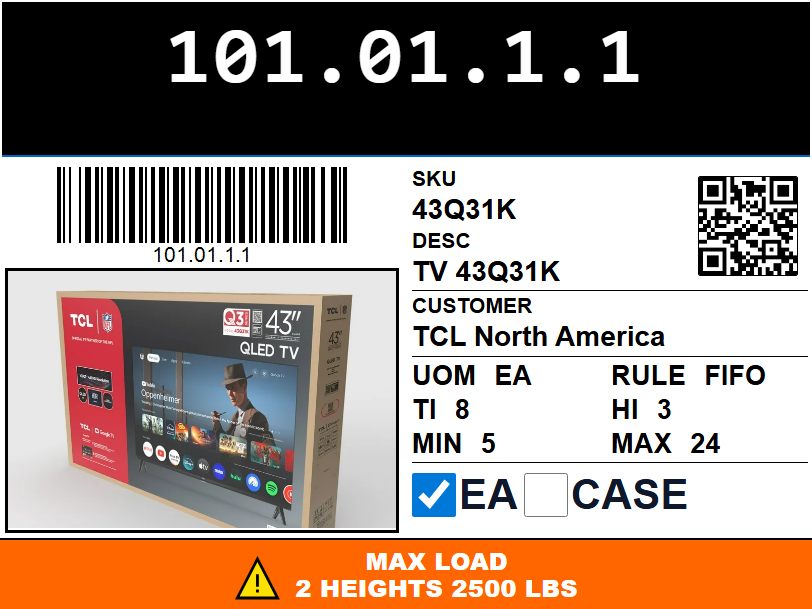
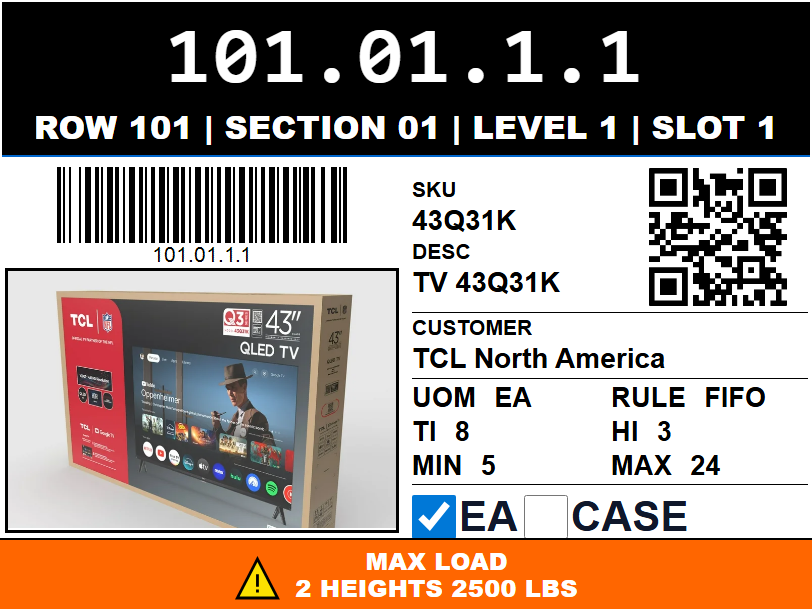
edit location lale style

Changed region(s): [[0.0308, 0.1872, 0.9852, 0.9048], [0.6466, 0.7488, 0.6773, 0.78]]

diff --git a/src/styles/location_label.css b/src/styles/location_label.css
@@ -63,7 +63,7 @@ body {
 
 .location-breakdown {
   font-size: clamp(0.8rem, 8vw, 2rem);
-  color: var(--location-dark);
+  color: var(--location-white);
   margin: 2px 0 0;
   text-transform: uppercase;
   letter-spacing: 0.01em;
@@ -173,7 +173,7 @@ body {
   display: flex;
   flex-direction: column;
   gap: 2px;
-  border-bottom: 1px solid var(--location-dark);
+  border-bottom: 2px solid var(--location-dark);
   padding-bottom: 2px;
 }
 
@@ -215,12 +215,12 @@ body {
 }
 
 .sku-qr img {
-  width: 100px;
+  width: 140px;
   height: auto;
   object-fit: contain;
-  border: 1px solid black;
+  border: 1px solid var(--location-white);
   border-radius: 2px;
-  margin-right: 10px;
+  margin-right: 20px;
 }
 
 .uom-grid {
